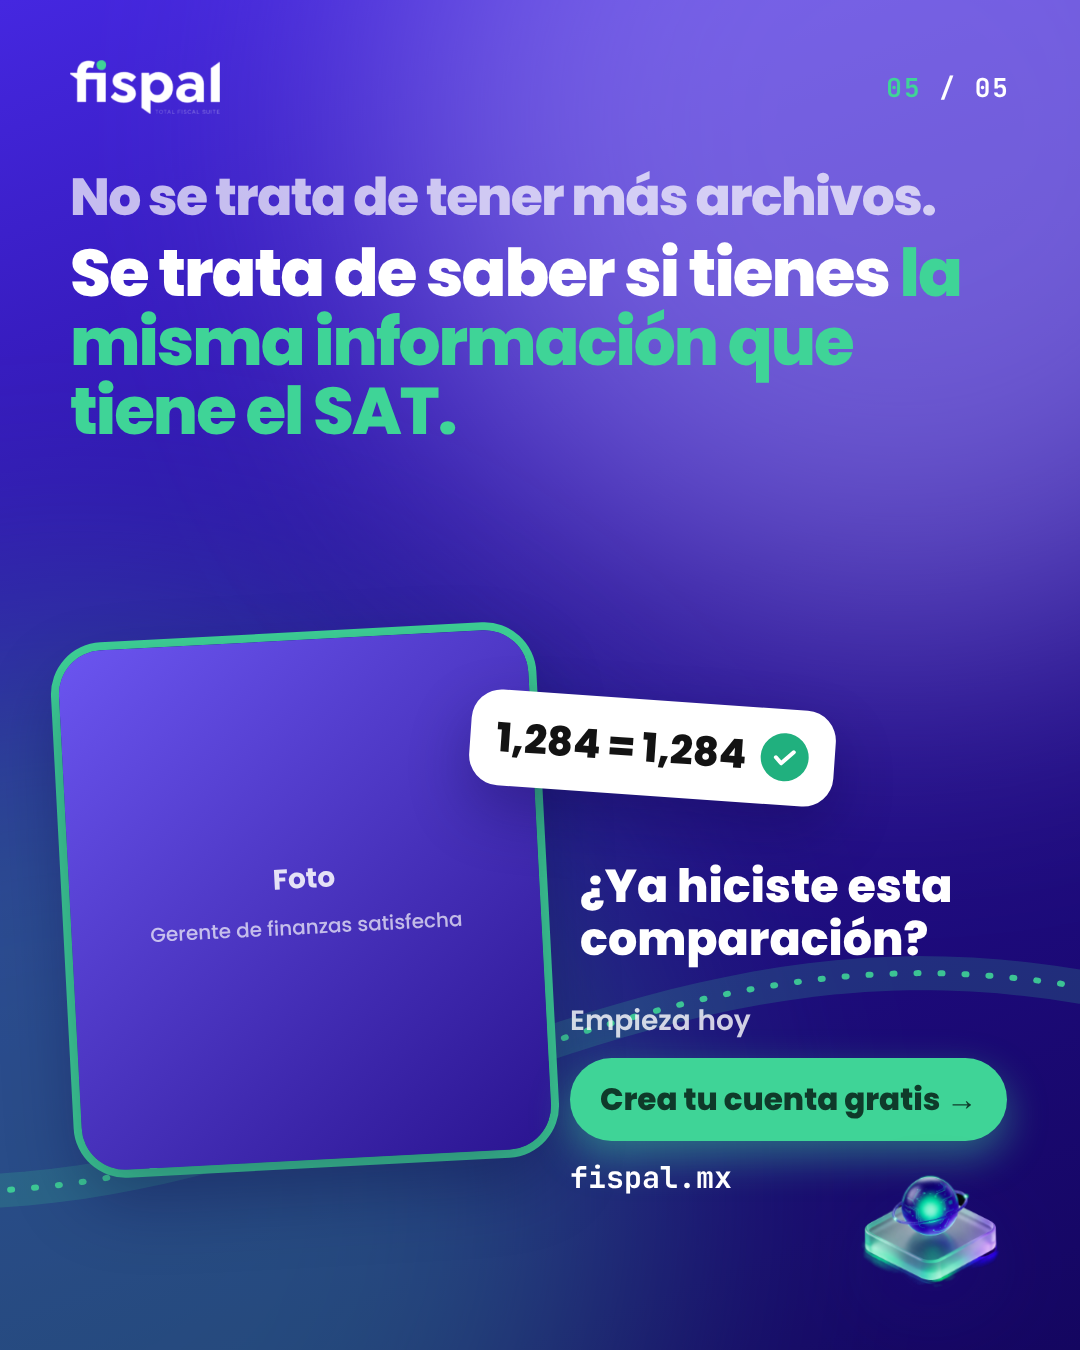
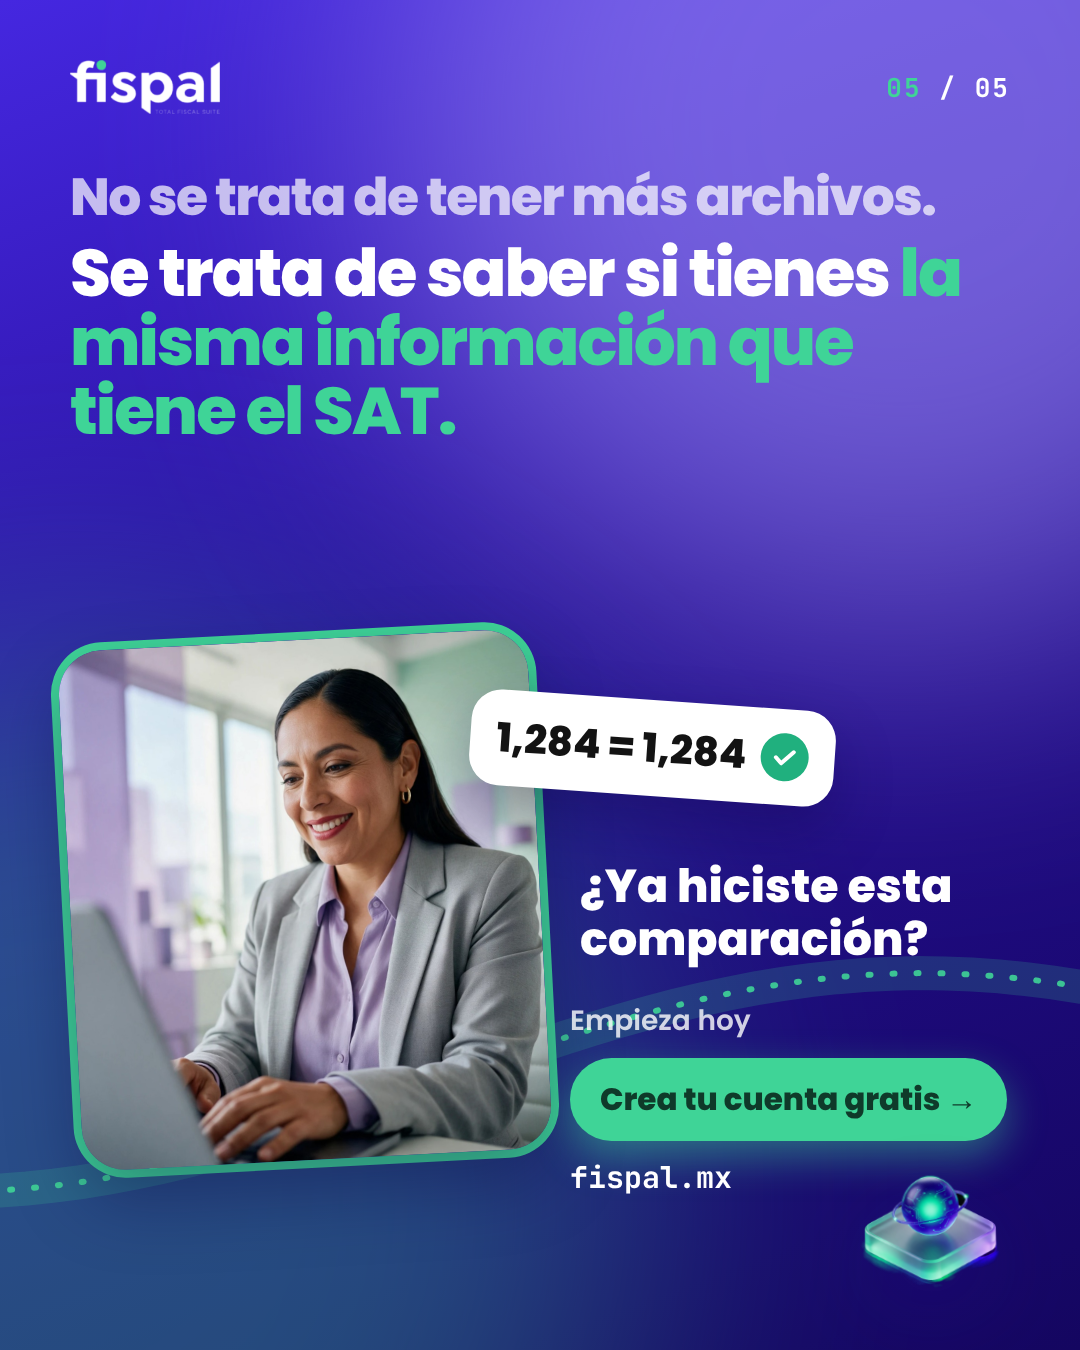
Fispal carrusel 1 (parrilla 2): Magnific photos in place
Claude-Session: https://claude.ai/code/session_01NghCctPQaKXziVeL1FGG6n

Changed region(s): [[0.0306, 0.4667, 0.5194, 0.8711]]

diff --git a/editor/src/carruseles/C1Sat.tsx b/editor/src/carruseles/C1Sat.tsx
@@ -30,7 +30,7 @@ const S1: React.FC = () => (
         <b style={{ color: "#fff" }}>Spoiler:</b> podrías estar comparando contra una información incompleta. →
       </Body>
     </div>
-    <Photo name="c1-dudas" hint="Contadora comparando facturas" style={{ left: 420, top: 640, width: 560, height: 590, transform: "rotate(3deg)" }} />
+    <Photo name="c1-dudas" hint="Contadora comparando facturas" position="40% 30%" style={{ left: 420, top: 640, width: 560, height: 590, transform: "rotate(3deg)" }} />
     <Counter who="SAT" n="1,284" icon={IC.building} color={C.purple} style={{ left: 70, top: 700, transform: "rotate(-4deg)" }} />
     <Counter who="TÚ" n="1,197" icon={IC.user} color="#20B07E" style={{ left: 110, top: 880, transform: "rotate(2deg)" }} />
     <div style={{ position: "absolute", left: 300, top: 1040, background: CORAL, color: "#fff", fontFamily: FONT, fontWeight: 800, fontSize: 44, borderRadius: 999, padding: "10px 30px", boxShadow: "0 16px 36px rgba(255,122,122,.5)", transform: "rotate(-6deg)" }}>−87 CFDI</div>
@@ -82,7 +82,7 @@ const S3: React.FC = () => (
       <Title t={t} size={64} parts={["La diferencia puede estar en comprobantes que ", { hl: "no tienes identificados." }]} />
       <Body t={t}>Y si no comparas ambas fuentes, es difícil saber que existe.</Body>
     </div>
-    <Photo name="c3-busqueda" hint="Analista buscando entre papeles" style={{ left: 600, top: 650, width: 400, height: 560, transform: "rotate(-3deg)" }} />
+    <Photo name="c3-busqueda" hint="Analista buscando entre papeles" position="62% 25%" style={{ left: 600, top: 650, width: 400, height: 560, transform: "rotate(-3deg)" }} />
     <Card t={t} style={{ position: "absolute", left: 70, top: 690, width: 600, padding: "18px 22px", transform: "rotate(-1.5deg)" }}>
       {ROWS.map((r, k) => (
         <div key={k} style={{ display: "flex", alignItems: "center", gap: 14, padding: "14px 6px", borderBottom: k < ROWS.length - 1 ? "1px solid #EEF0F6" : "none", background: r.ok ? "transparent" : "rgba(255,122,122,.1)", border: r.ok ? undefined : `2px dashed ${CORAL}`, borderRadius: r.ok ? 0 : 14, margin: r.ok ? 0 : "4px 0" }}>
@@ -154,7 +154,7 @@ const S5: React.FC = () => (
       <Title t={t} size={52} parts={["No se trata de tener más archivos."]} style={{ color: "rgba(255,255,255,.7)" }} />
       <Title t={t} size={66} parts={["Se trata de saber si tienes ", { hl: "la misma información que tiene el SAT." }]} style={{ marginTop: 14 }} />
     </div>
-    <Photo name="c5-tranquila" hint="Gerente de finanzas satisfecha" style={{ left: 70, top: 640, width: 470, height: 520, transform: "rotate(-3deg)" }} ring={MINT} />
+    <Photo name="c5-tranquila" hint="Gerente de finanzas satisfecha" position="62% 30%" style={{ left: 70, top: 640, width: 470, height: 520, transform: "rotate(-3deg)" }} ring={MINT} />
     <Card t={t} style={{ position: "absolute", left: 470, top: 700, padding: "18px 26px", display: "flex", alignItems: "center", gap: 14, transform: "rotate(4deg)" }}>
       <span style={{ fontWeight: 800, fontSize: 40 }}>1,284 = 1,284</span>
       <div style={{ width: 48, height: 48, borderRadius: 24, background: "#20B07E", display: "flex", alignItems: "center", justifyContent: "center" }}>
